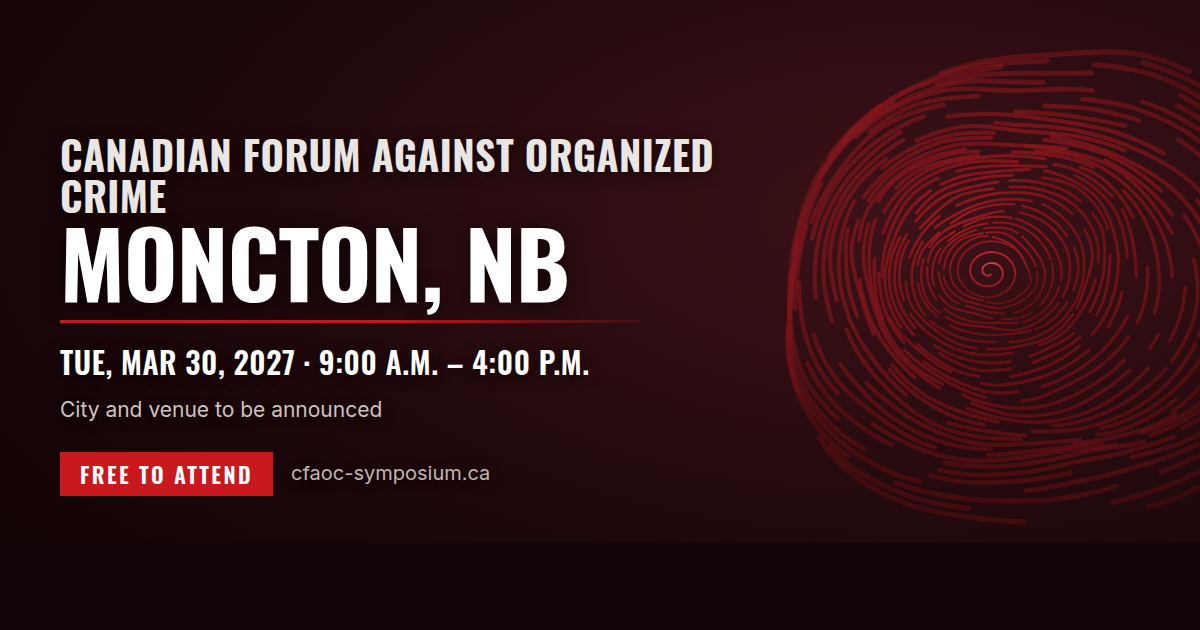
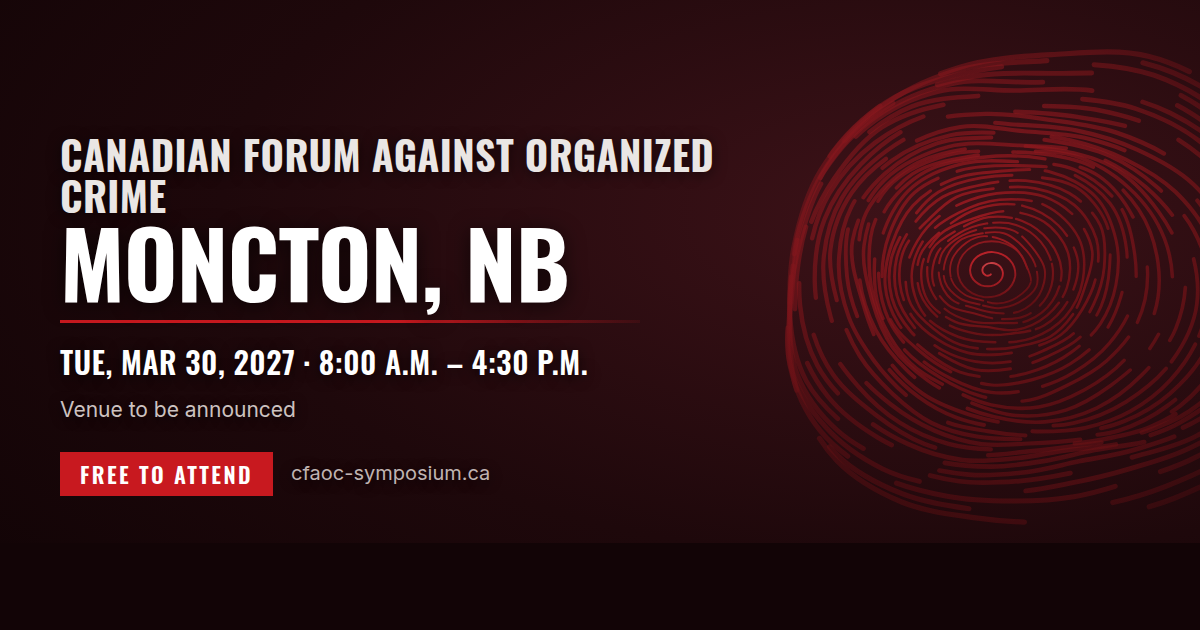
Link previews: a settled city with an unsettled room
The preview card captioned every venue-less event "City and venue to be
announced", which contradicted its own headline once Toronto and Moncton had
cities. The caption now only claims the city is unknown when it is: a city
with no venue reads "Venue to be announced", and an event with neither still
reads the fuller line. The undated West Coast card is unchanged.

While regenerating, the three unscheduled events still carried the old 9:00
to 4:00 day with networking 4:00 to 6:00 - stale since the Victoria agenda
moved the series to 8:00 to 4:30 with networking 4:30 to 6:30. Andrew's
standing note is that these times hold in every city, so they are aligned.
Toronto's and Moncton's cards were advertising hours nobody was going to
keep; they now match the series. Nothing else surfaces these times, since
neither city has a page yet.

Previews regenerated with a server up, so the artwork is real rather than
screenshots of Chrome's error page.

Claude-Session: https://claude.ai/code/session_01GtYfbsGRwkcgpS5XaLiveo

Changed region(s): [[0.0308, 0.6333, 0.3392, 0.6635], [0.2467, 0.5429, 0.37, 0.6032], [0.4008, 0.5429, 0.4933, 0.6032]]

diff --git a/scripts/make-og.js b/scripts/make-og.js
@@ -61,7 +61,13 @@ function page(ev) {
     ? `${fmtDate(ev.date)} · ${fmtTime(ev.startTime)} – ${fmtTime(ev.endTime)}`
     : (ev.dateNote || 'Date to be announced');
   const city = ev.city ? `${ev.city}, ${ev.province}` : ev.regionLabel;
-  const sub = ev.venue && ev.venue.name ? ev.venue.name : 'City and venue to be announced';
+  /* A city can be settled before its room is. Only say the city is unknown
+     when it actually is, or the caption contradicts the headline above it. */
+  const sub = ev.venue && ev.venue.name
+    ? ev.venue.name
+    : ev.city
+      ? 'Venue to be announced'
+      : 'City and venue to be announced';
   const sky = ev.skylineImage
     ? `background:url('${ev.skylineImage}') center 38% / cover no-repeat;` +
       `filter:grayscale(1) contrast(1.15) brightness(1.05);mix-blend-mode:screen;opacity:.20;`
